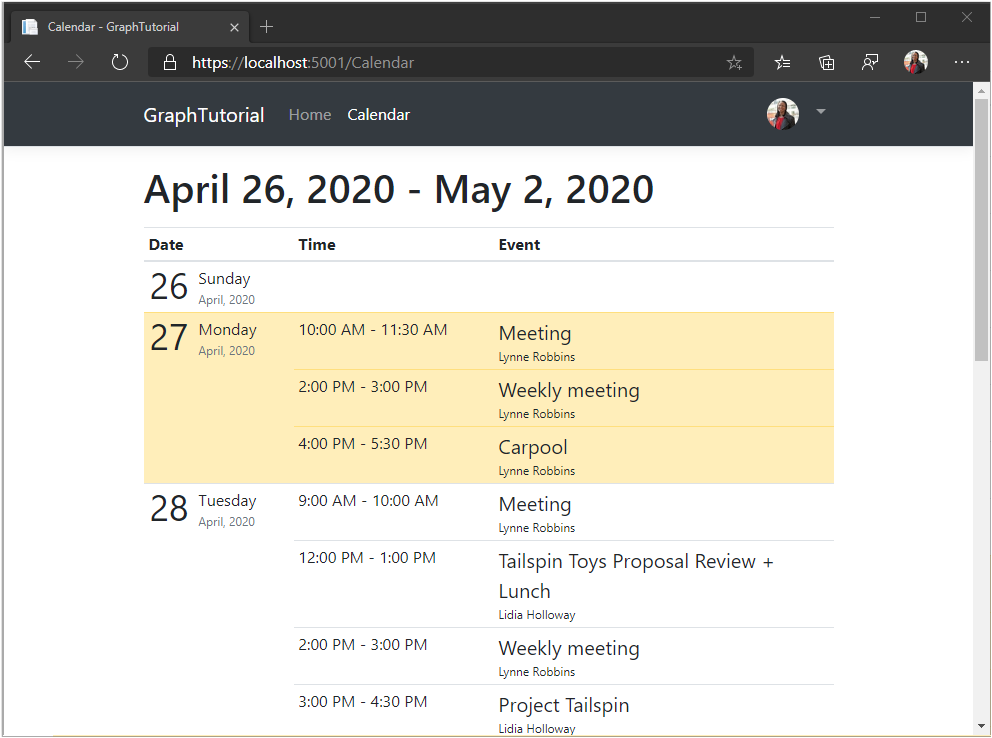
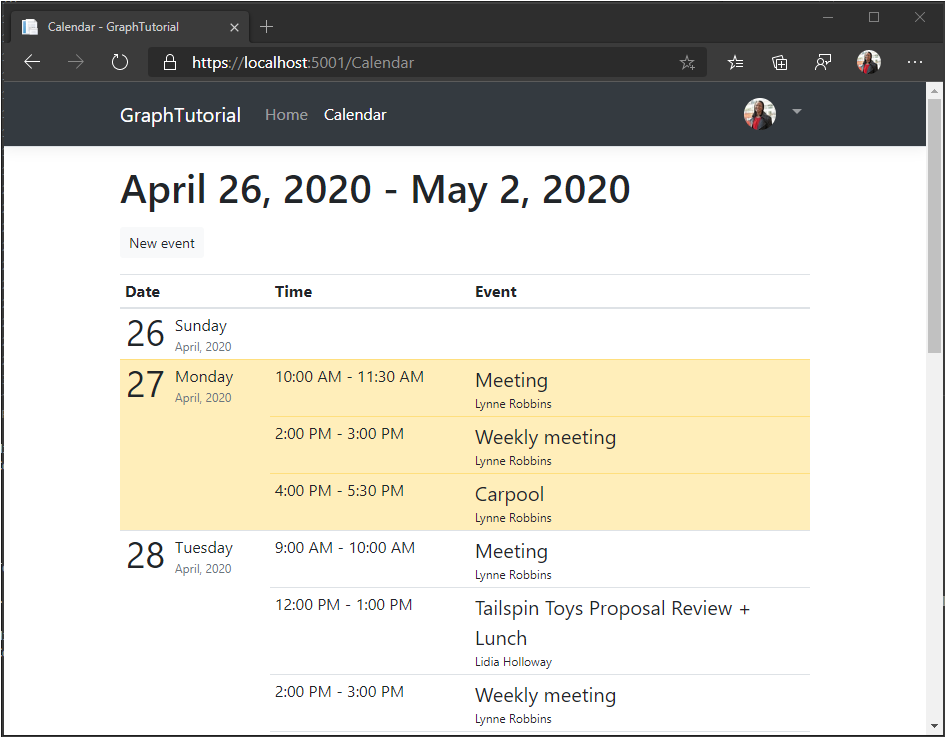
Completed create event step

diff --git a/demo/GraphTutorial/Controllers/CalendarController.cs b/demo/GraphTutorial/Controllers/CalendarController.cs
@@ -60,6 +60,100 @@ namespace GraphTutorial.Controllers
         }
         // </IndexSnippet>
 
+        // <CalendarNewGetSnippet>
+        // Minimum permission scope needed for this view
+        [AuthorizeForScopes(Scopes = new[] { "Calendars.ReadWrite" })]
+        public IActionResult New()
+        {
+            return View();
+        }
+        // </CalendarNewGetSnippet>
+
+        // <CalendarNewPostSnippet>
+        [HttpPost]
+        [ValidateAntiForgeryToken]
+        [AuthorizeForScopes(Scopes = new[] { "Calendars.ReadWrite" })]
+        public async Task<IActionResult> New([Bind("Subject,Attendees,Start,End,Body")] NewEvent newEvent)
+        {
+            var timeZone = User.GetUserGraphTimeZone();
+
+            // Create a Graph event with the required fields
+            var graphEvent = new Event
+            {
+                Subject = newEvent.Subject,
+                Start = new DateTimeTimeZone
+                {
+                    DateTime = newEvent.Start.ToString("o"),
+                    // Use the user's time zone
+                    TimeZone = timeZone
+                },
+                End = new DateTimeTimeZone
+                {
+                    DateTime = newEvent.End.ToString("o"),
+                    // Use the user's time zone
+                    TimeZone = timeZone
+                }
+            };
+
+            // Add body if present
+            if (!string.IsNullOrEmpty(newEvent.Body))
+            {
+                graphEvent.Body = new ItemBody
+                {
+                    ContentType = BodyType.Text,
+                    Content = newEvent.Body
+                };
+            }
+
+            // Add attendees if present
+            if (!string.IsNullOrEmpty(newEvent.Attendees))
+            {
+                var attendees =
+                    newEvent.Attendees.Split(';', StringSplitOptions.RemoveEmptyEntries);
+
+                if (attendees.Length > 0)
+                {
+                    var attendeeList = new List<Attendee>();
+                    foreach (var attendee in attendees)
+                    {
+                        attendeeList.Add(new Attendee{
+                            EmailAddress = new EmailAddress
+                            {
+                                Address = attendee
+                            },
+                            Type = AttendeeType.Required
+                        });
+                    }
+                }
+            }
+
+            var graphClient = GraphServiceClientFactory
+                .GetAuthenticatedGraphClient(async () =>
+                {
+                    return await _tokenAcquisition
+                        .GetAccessTokenForUserAsync(GraphConstants.Scopes);
+                }
+            );
+
+            try
+            {
+                // Add the event
+                await graphClient.Me.Events
+                    .Request()
+                    .AddAsync(graphEvent);
+
+                // Redirect to the calendar view with a success message
+                return RedirectToAction("Index").WithSuccess("Event created");
+            }
+            catch (ServiceException ex)
+            {
+                // Redirect to the calendar view with an error message
+                return RedirectToAction("Index")
+                    .WithError("Error creating event", ex.Error.Message);
+            }
+        }
+        // </CalendarNewPostSnippet>
+
 // <SecondSnippet>
         private async Task<IList<Event>> GetUserWeekCalendar(DateTime startOfWeek)
         {

diff --git a/demo/GraphTutorial/Models/NewEvent.cs b/demo/GraphTutorial/Models/NewEvent.cs
@@ -1,0 +1,23 @@
+// Copyright (c) Microsoft Corporation. All rights reserved.
+// Licensed under the MIT license.
+
+// <NewEventSnippet>
+using System;
+using System.ComponentModel.DataAnnotations;
+
+namespace GraphTutorial.Models
+{
+    public class NewEvent
+    {
+        [Required]
+        public string Subject { get; set; }
+        public DateTime Start { get; set; }
+        public DateTime End { get; set; }
+        [DataType(DataType.MultilineText)]
+        public string Body { get; set; }
+        [RegularExpression(@"((\w+([-+.']\w+)*@\w+([-.]\w+)*\.\w+([-.]\w+)*)*([;])*)*",
+          ErrorMessage="Please enter one or more email addresses separated by a semi-colon (;)")]
+        public string Attendees { get; set; }
+    }
+}
+// </NewEventSnippet>

diff --git a/tutorial/06-create-event.md b/tutorial/06-create-event.md
@@ -1,0 +1,29 @@
+<!-- markdownlint-disable MD002 MD041 -->
+
+In this section you will add the ability to create events on the user's calendar.
+
+## Create model
+
+1. Create a new file named **NewEvent.cs** in the **./Models** directory and add the following code.
+
+    :::code language="csharp" source="../demo/GraphTutorial/Models/NewEvent.cs" id="NewEventSnippet":::
+
+## Create view
+
+1. Create a new file named **New.cshtml** in he **./Views/Calendar** directory and add the following code.
+
+    :::code language="cshtml" source="../demo/GraphTutorial/Views/Calendar/New.cshtml" id="NewFormSnippet":::
+
+## Add controller actions
+
+1. Open **./Controllers/CalendarController.cs** and add the following action to the `CalendarController` class to render the new event form.
+
+    :::code language="csharp" source="../demo/GraphTutorial/Controllers/CalendarController.cs" id="CalendarNewGetSnippet":::
+
+1. Add the following action to the `CalendarController` class to receive the new event from the form when the user clicks **Save** and use Microsoft Graph to add the event to the user's calendar.
+
+    :::code language="csharp" source="../demo/GraphTutorial/Controllers/CalendarController.cs" id="CalendarNewPostSnippet":::
+
+1. Start the app, sign in, and click the **Calendar** link. Click the **New event** button, fill in the form, and click **Save**.
+
+    ![A screenshot of the new event form](./images/create-event-01.png)

diff --git a/tutorial/05-add-ms-graph.md b/tutorial/05-add-ms-graph.md
@@ -1,6 +1,6 @@
 <!-- markdownlint-disable MD002 MD041 -->
 
-In this demo you will incorporate Microsoft Graph into the application. For this application, you will use the [Microsoft Graph Client Library for .NET](https://github.com/microsoftgraph/msgraph-sdk-dotnet) to make calls to Microsoft Graph.
+In this section you will incorporate Microsoft Graph into the application. For this application, you will use the [Microsoft Graph Client Library for .NET](https://github.com/microsoftgraph/msgraph-sdk-dotnet) to make calls to Microsoft Graph.
 
 ## Get calendar events from Outlook
 
